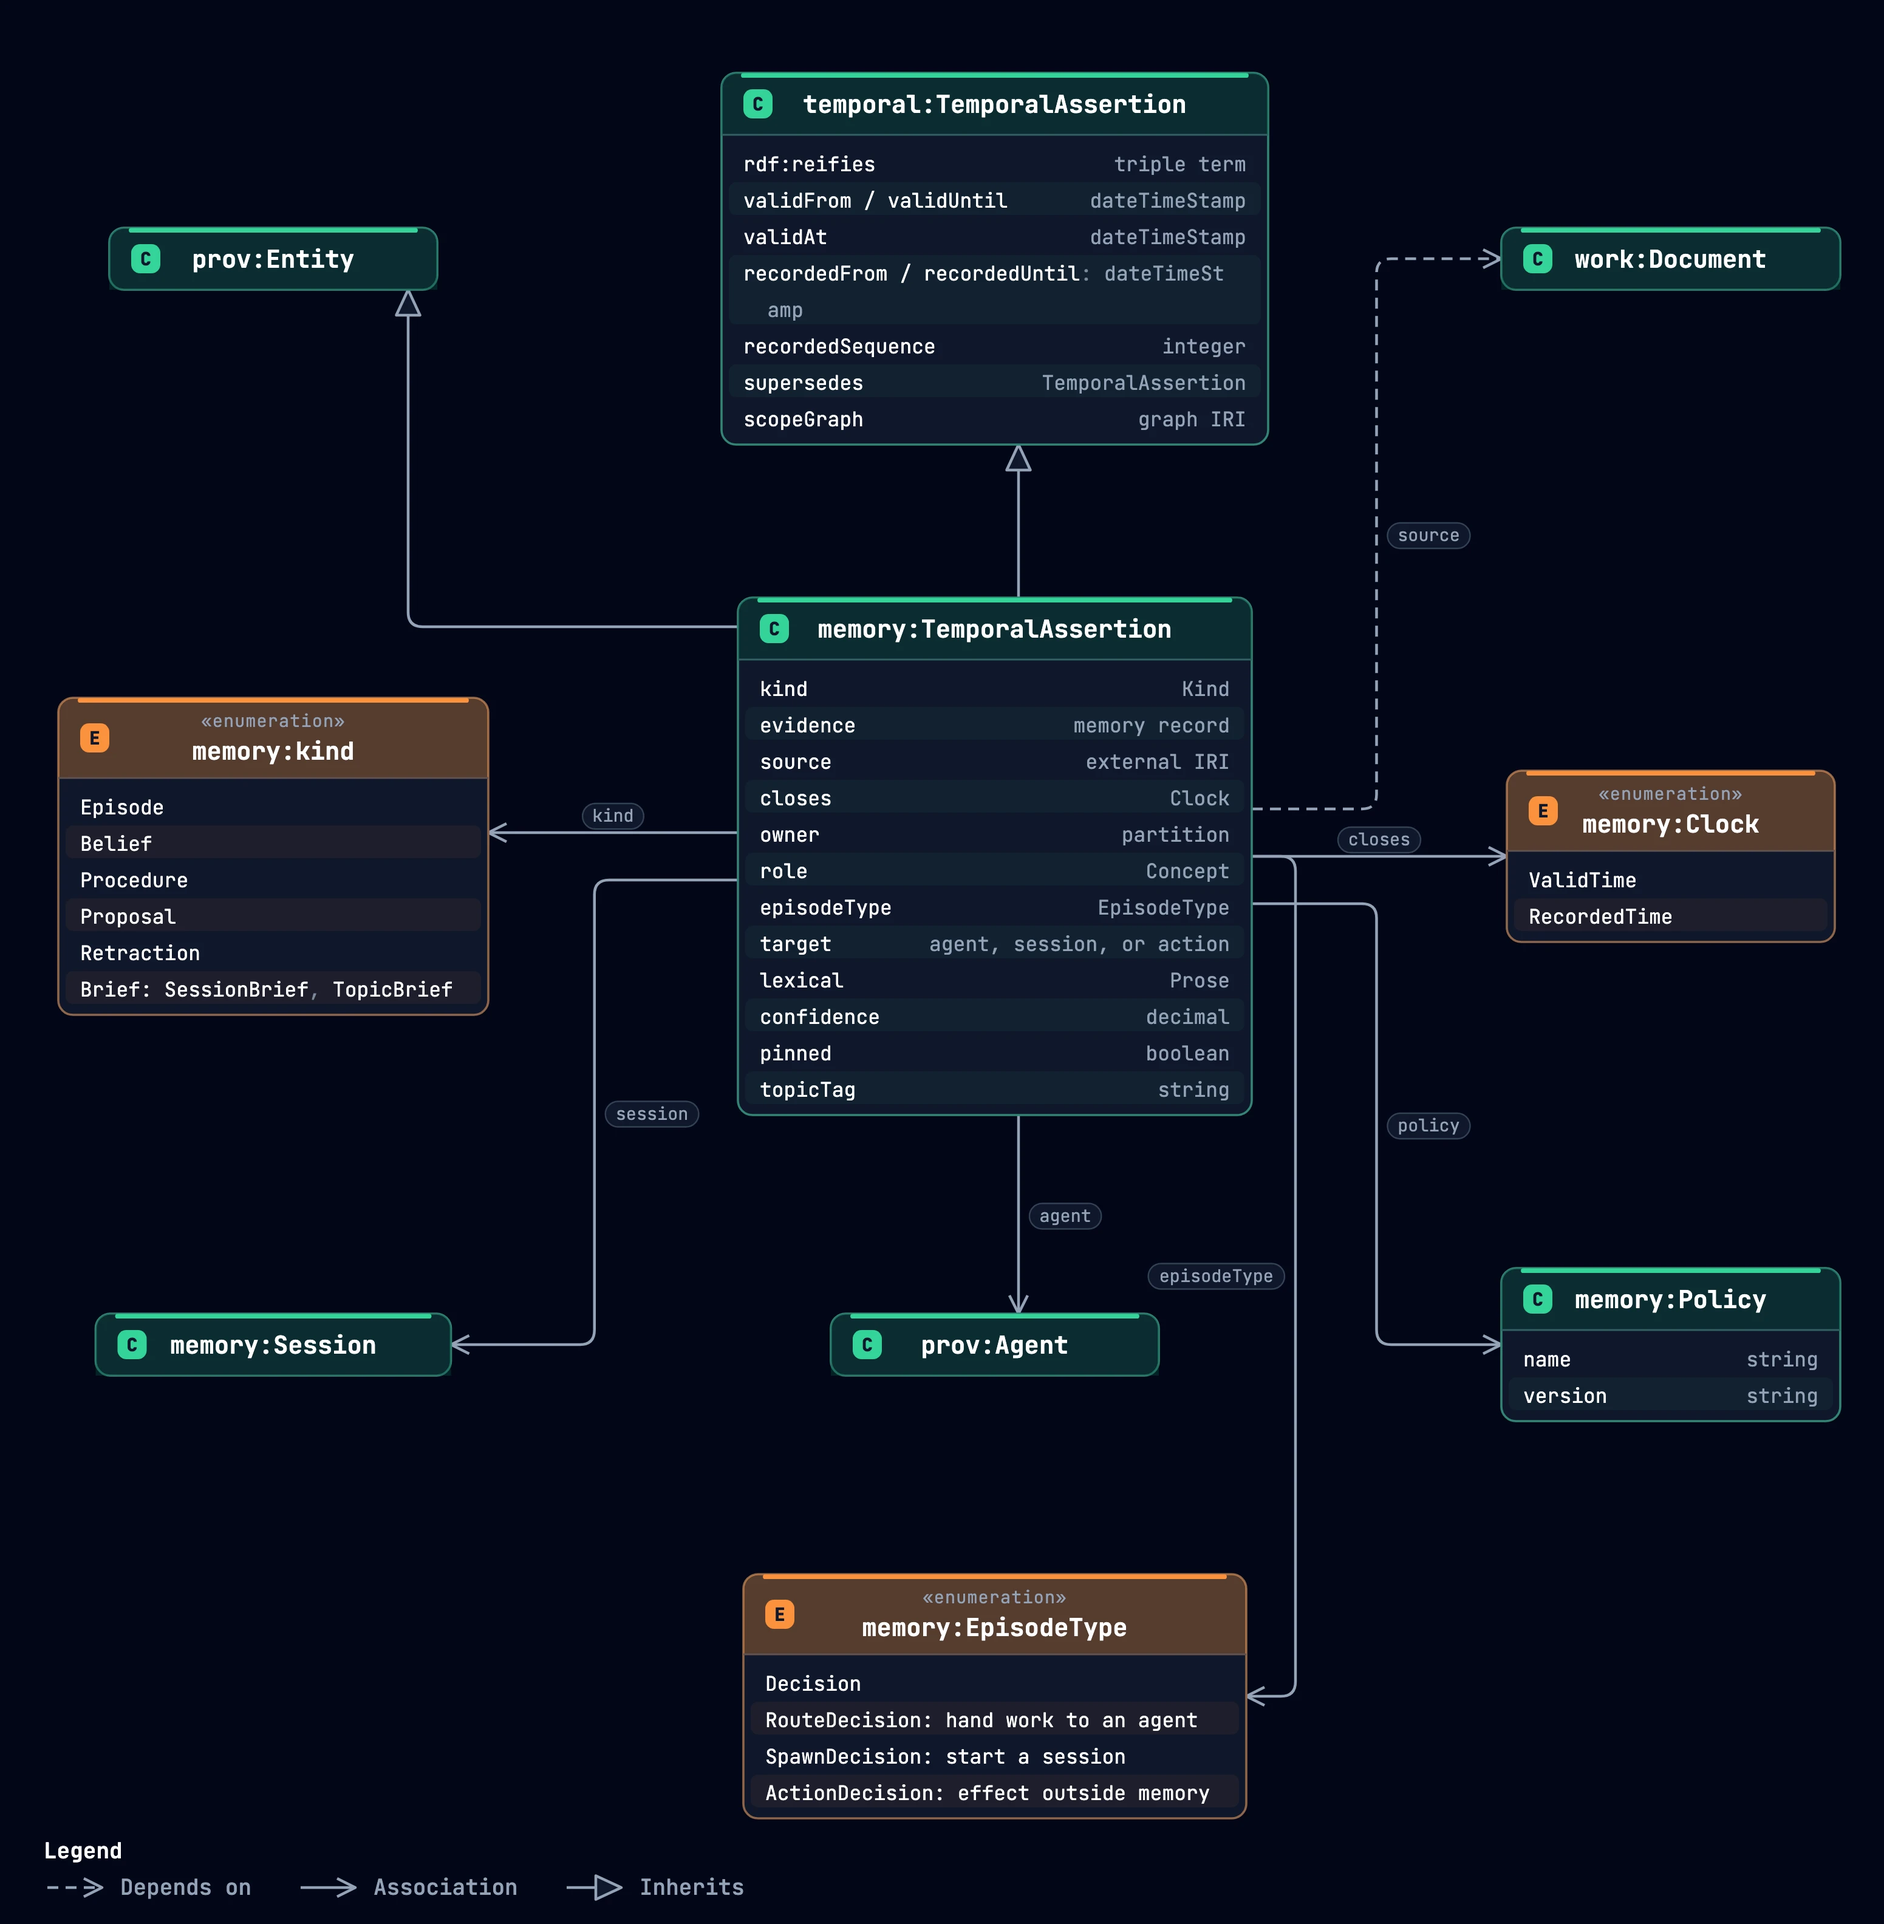
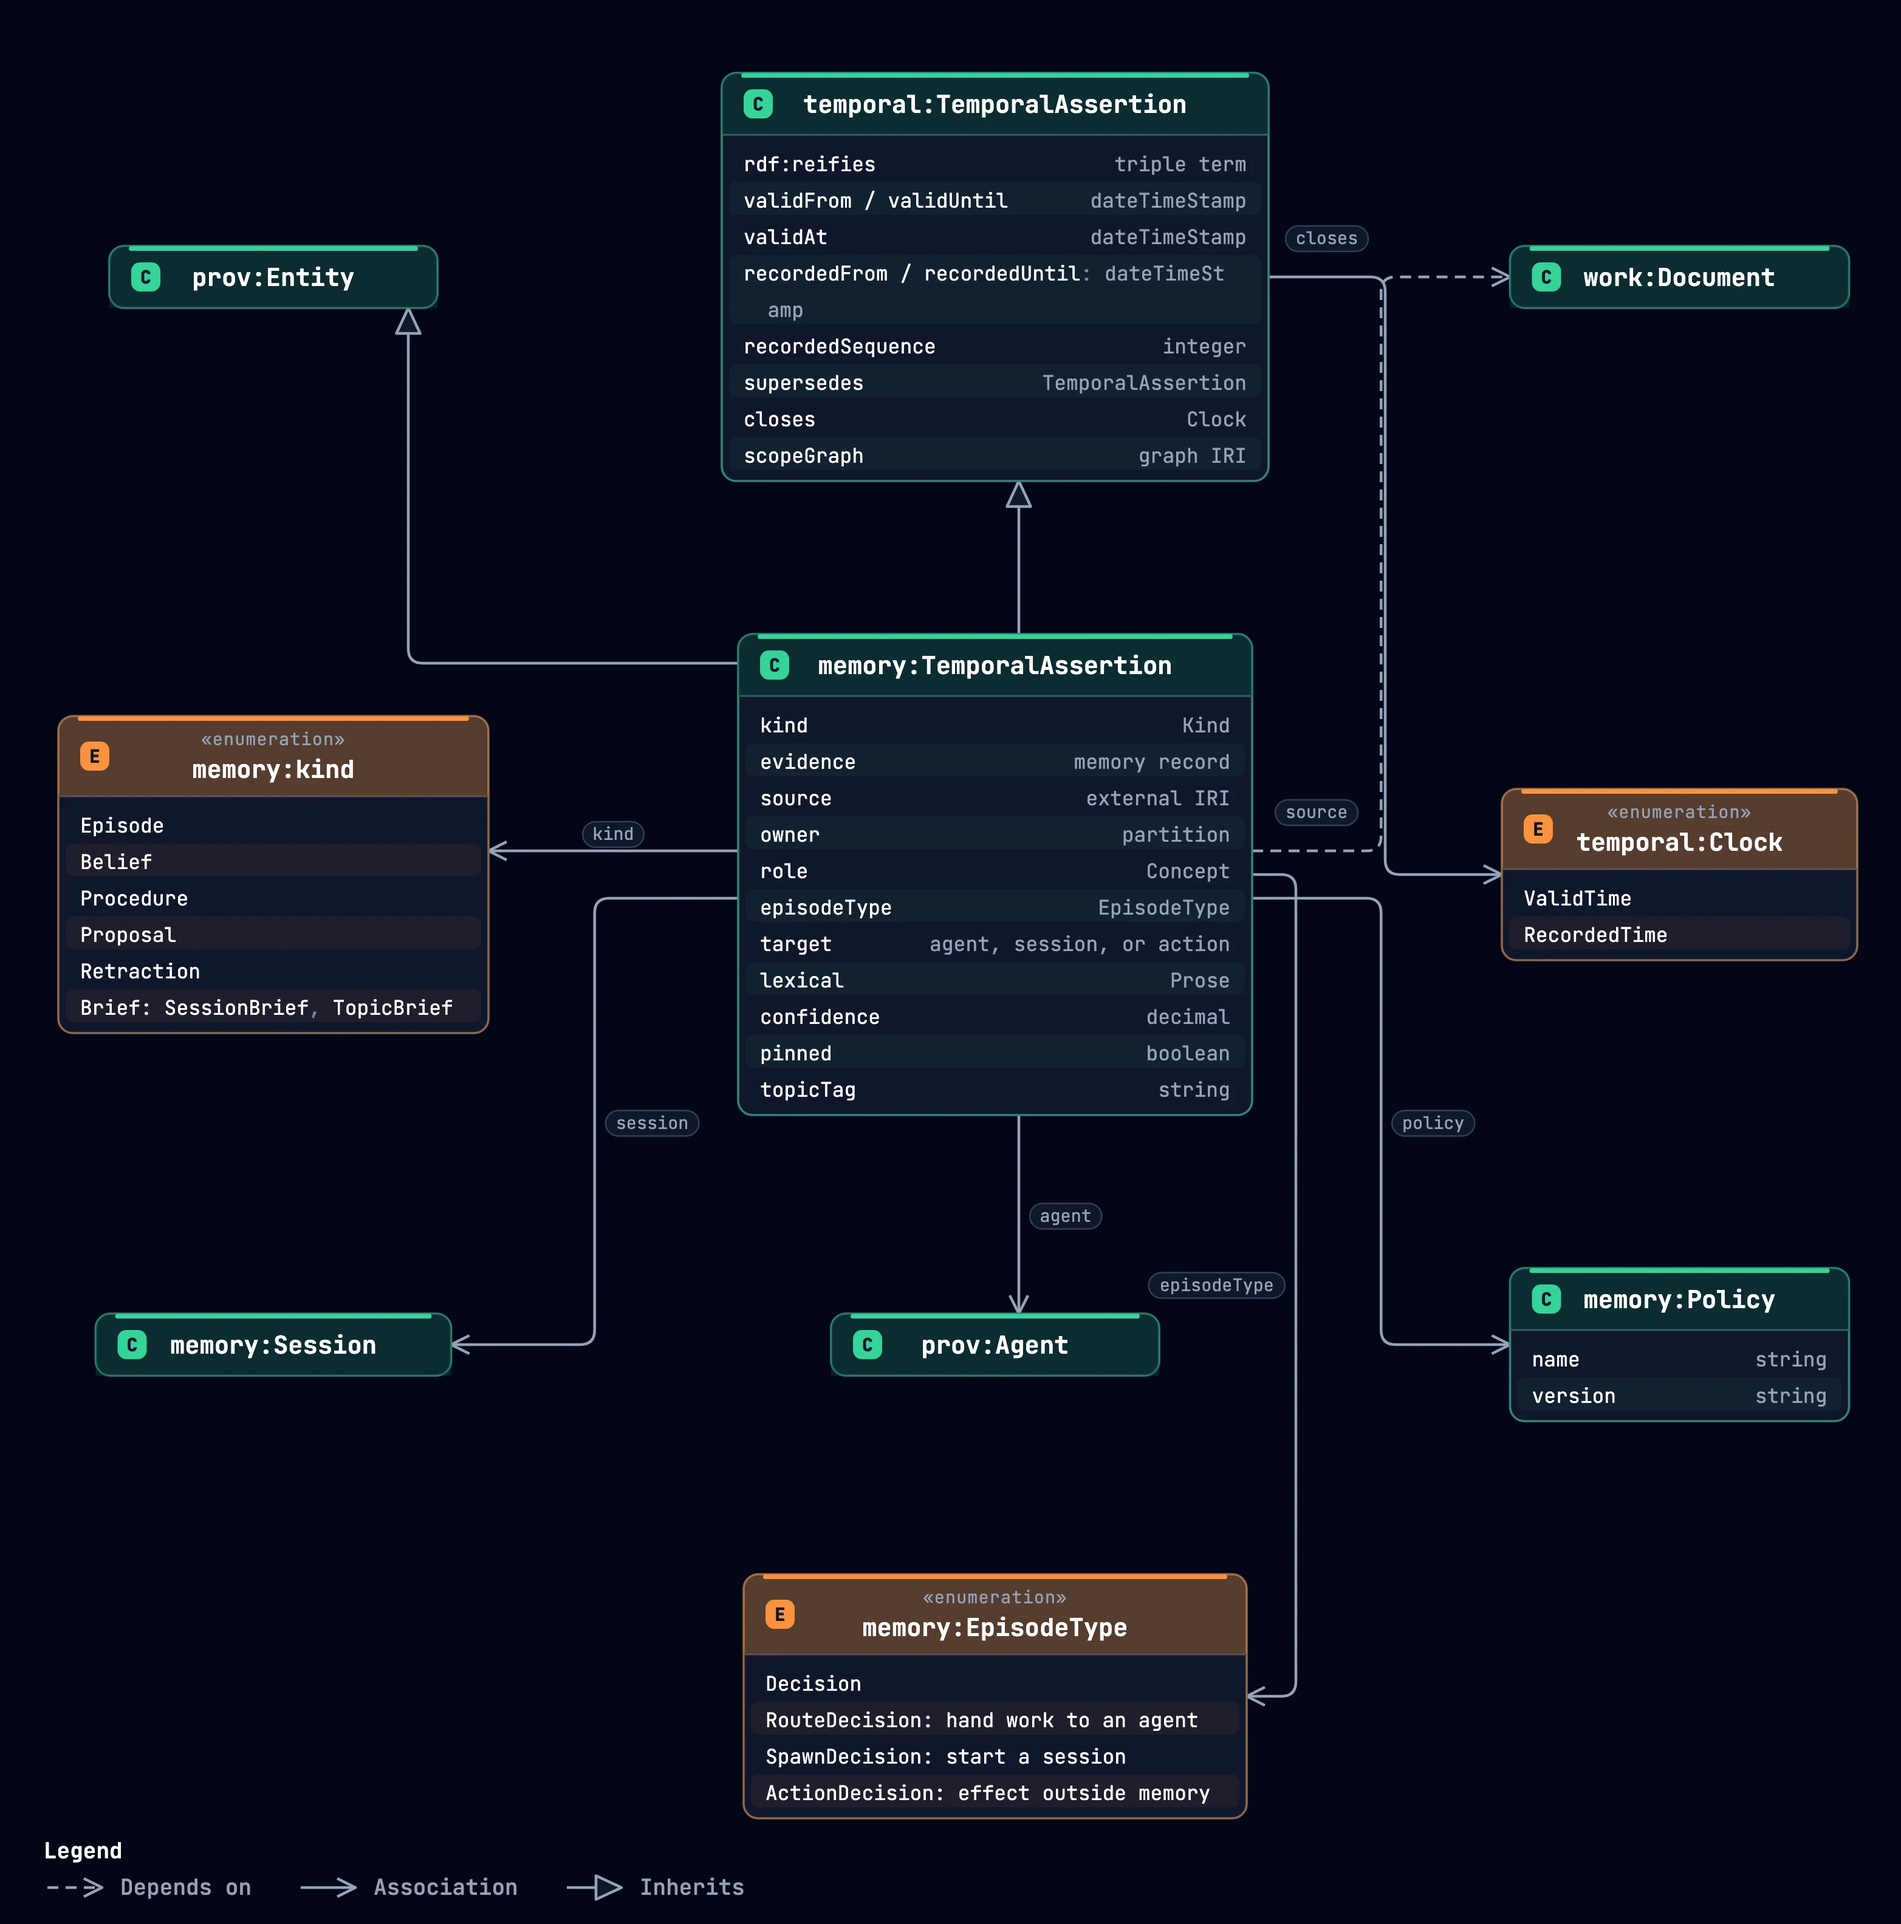
Close records with their own recorded time; move clocks to temporal

diff --git a/README.md b/README.md
@@ -16,7 +16,7 @@ These RDF vocabularies and SHACL shapes describe temporal assertions, agent memo
 | [software.ttl](ontologies/software.ttl) | Software-specific terms, including repositories, source files, issues, commits, and dependencies. Builds on the work vocabulary. | `http://nova.dev/software#` |
 | [answer-evidence-shapes.ttl](ontologies/answer-evidence-shapes.ttl) | SHACL constraints for cited answer evidence and inferred-evidence derivations, not for the underlying domain data. | `http://nova.dev/ns/answer-evidence#` |
 
-The four ontology files include labels, definitions, and further modeling notes. `temporal.ttl` and `memory.ttl` declare version `0.1.0`; `work.ttl` and `software.ttl` declare `0.2.0`. The namespace IRIs identify vocabulary terms; they are not a guarantee that an ontology can be downloaded from those addresses.
+The four ontology files include labels, definitions, and further modeling notes. All four declare version `0.2.0`. The namespace IRIs identify vocabulary terms; they are not a guarantee that an ontology can be downloaded from those addresses.
 
 ## Getting started
 
@@ -43,7 +43,25 @@ A reasoner that supports the relevant axioms can infer, for example, that the co
 
 A `temporal:TemporalAssertion` is an identifiable record that uses RDF 1.2 `rdf:reifies` to refer to a triple term. The referenced triple is not automatically asserted as an ordinary fact. Valid time describes when that fact holds; recorded time describes when a store held the record. Valid-time intervals are half-open: the start is inclusive and the end exclusive. An instant uses `temporal:validAt` instead of interval endpoints.
 
-Memory records add memory:kind and other memory-specific properties to temporal assertions. They use intervals beginning with temporal:validFrom, not temporal:validAt. Superseding records are separate resources. A store may keep recorded time as commit sequences rather than datetime literals; a portable RDF export must include the corresponding recorded-time coordinates. RDF 1.2 triple terms and rdf:reifies require compatible tooling.
+Memory records add memory:kind and other memory-specific properties to temporal assertions. They use intervals beginning with temporal:validFrom, not temporal:validAt. Superseding records are separate resources.
+
+### Closing a record
+
+A record is never ended by editing it. A new record points at it with `temporal:supersedes` and names the clock it closes with `temporal:closes`. That closing record has its own recorded time and agent, so the close is itself a fact with a recorded time.
+
+| Case | `temporal:closes` | Meaning |
+|---|---|---|
+| Supersession | `temporal:ValidTime` | The world changed. The earlier statement was true until the closing record's `temporal:validFrom`. |
+| Correction | `temporal:RecordedTime` | The earlier record was a mistake. It was held until the closing record was recorded, and it was never true in the world. |
+| Retraction | `temporal:RecordedTime`, `temporal:ValidTime`, or both | A `memory:Retraction` withdraws a belief without asserting a replacement. |
+
+A domain record that supersedes and carries no `temporal:closes` is a supersession. A memory record must name the clock. Domain records and memory records may both carry a correction.
+
+`temporal:validUntil` and `temporal:recordedUntil` on the earlier record are stored copies of an end, derived from the closing record. A query as of recorded time *t* takes ends only from closing records recorded at or before *t*, and ignores a stored copy whose closing record was recorded after *t*. Otherwise a knowledge cut taken before the close was recorded would see the close. See `tests/valid/supersession-closes-valid-time.ttl`, `correction-closes-recorded-time.ttl`, `retraction-closes-recorded-time.ttl`, and the `domain-*` fixtures.
+
+### Partial use
+
+You may use these property IRIs without the shapes. For example, a store without RDF 1.2 triple terms may reify with `rdf:subject`, `rdf:predicate`, and `rdf:object` and still use `temporal:validFrom`, `temporal:recordedFrom`, `temporal:supersedes`, and `temporal:closes` with the meanings given here. Such data does not conform to the shapes, which require `rdf:reifies`, so do not claim conformance for it. A store may keep recorded time as commit sequences rather than datetime literals; a portable RDF export must include the corresponding recorded-time coordinates. RDF 1.2 triple terms and rdf:reifies require compatible tooling.
 
 Curated knowledge from outside memory, such as published reports or third-party briefs, is not a memory record. Keep it in its own graph, for example as `work:Document` resources linked to topics with `work:about`. A belief, procedure, proposal, or retraction can name such a resource with `memory:source`. `memory:evidence` stays reserved for memory records, so a reader can tell what was observed in a session from what came from an outside source.
 
